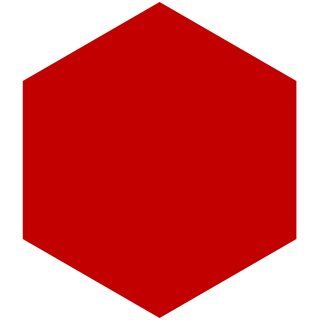
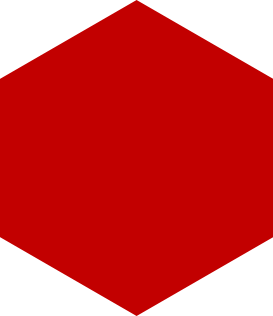
Added 3D print component with hexes

Changed region(s): [[0.0, 0.0, 1.0, 1.0]]

diff --git a/src/app/routes/Druk3D/Druk3D.js b/src/app/routes/Druk3D/Druk3D.js
@@ -1,12 +1,63 @@
 import React, {Component} from 'react'
 import DocTitle from 'react-document-title'
 import {Grid, Row, Col, Image} from 'react-bootstrap'
+import hexr from './../../assets/hex-red-tmp.png'
+import './Druk3D.scss'
+import {Link} from 'react-router'
 
 class Druk3D extends Component {
   render() {
 		return (
 			<div>
-				<h1>Druk 3D</h1>
+				<div className="container">
+					<h2>Druk 3D</h2>
+				</div>
+				<div className="technics">
+					<div className="print">
+						<div className="tech">
+							<Link to="/">
+								<div className="tech-name">Wolfix Filamenty</div>
+								<Image src={hexr}/>
+							</Link>
+						</div>
+						<div className="tech">
+							<Link to="/">
+								<div className="tech-name">Projektowanie</div>
+								<Image src={hexr}/>
+							</Link>
+						</div>
+						<div className="tech">
+							<Link to="/">
+								<div className="tech-name">Opis technologii</div>
+								<Image src={hexr}/>
+							</Link>
+						</div>
+						<div className="tech">
+							<Link to="/">
+								<div className="tech-name">Opis technologii</div>
+								<Image src={hexr}/>
+							</Link>
+						</div>
+						<div className="tech">
+							<Link to="/">
+								<div className="tech-name">Drukarki 3d</div>
+								<Image src={hexr}/>
+							</Link>
+						</div>
+						<div className="tech">
+							<Link to="/">
+								<div className="tech-name">Industry</div>
+								<Image src={hexr}/>
+							</Link>
+						</div>
+						<div className="tech">
+							<Link to="/">
+								<div className="tech-name">EDV</div>
+								<Image src={hexr}/>
+							</Link>
+						</div>
+					</div>
+				</div>
 			</div>
 		)
   }

diff --git a/src/app/routes/Druk3D/Druk3D.scss b/src/app/routes/Druk3D/Druk3D.scss
@@ -1,0 +1,51 @@
+$hexTech: 100vw/7;
+.technics {
+    width: 100%;
+    .print {
+        width: 98vw;
+        height: $hexTech*1.49;
+        display: inline-flex;
+        justify-content: center;
+        .tech {
+            width: $hexTech;
+            display: flex;
+            margin: 0 $hexTech*.073*-1;
+            &-name {
+                position: absolute;
+                width: 14.28571vw;
+                height: 14.28571vw;
+                padding: 12px;
+                display: flex;
+                align-items: center;
+                justify-content: center;
+                color: white;
+                font-weight: bold;
+                text-transform: uppercase;
+                z-index: 333;
+            }
+            
+a{
+    transition: .2s ease-in-out;
+    &:hover{    
+        z-index: 9;
+            transform: scale(1.2);
+        > img{
+            filter: grayscale(0);
+            z-index: 99999;
+        }
+    }
+}
+            img {
+                width: 100%;
+                filter: grayscale(1);
+                transition: .2s ease-in-out;
+            }
+            &:nth-child(even) {
+                align-items: flex-start;
+            }
+            &:nth-child(odd) {
+                align-items: flex-end;
+            }
+        }
+    }
+}

diff --git a/src/app/routes/Home/Home.js b/src/app/routes/Home/Home.js
@@ -41,7 +41,7 @@ class Home extends Component {
                     <Link className="hexAnimation10 wolf-news" to='/wolf-news'>
                       <Polyline points={hex.pointsHover} fill={{color:'rgba(75, 75, 75, 0.3)'}} stroke={{color:'#171717'}}  strokeWidth={6}/>
                     </Link>
-                    <Link className="druk hexAnimation9" to='/o-nas'>
+                    <Link className="druk hexAnimation9" to='/druk-3d'>
                       <Polyline points={hex.pointsHover} fill={{color:'rgba(75, 75, 75, 0.3)'}} stroke={{color:'#171717'}}  strokeWidth={6}/>
                     </Link>
                   </div>

diff --git a/src/app/components/Header/Header.js b/src/app/components/Header/Header.js
@@ -47,7 +47,7 @@ class Header extends Component {
 								<Link to='/portfolio' activeClassName='is-active'>Portfolio</Link>
 							</li>
 							<li>
-								<Link to='/project-studio' activeClassName='is-active'>Project studio</Link>
+								<Link to='/druk-3d' activeClassName='is-active'>Project studio</Link>
 							</li>
 							<li>
 								<Link to='/projekty' activeClassName='is-active'>Projekty</Link>

diff --git a/src/app/routes/App/App.scss b/src/app/routes/App/App.scss
@@ -15,8 +15,8 @@
         margin-bottom: 20px;
     }
     p {
-    margin: 10px 0 14px;
-}
+        margin: 10px 0 14px;
+    }
 
     .container{
         padding-bottom: 30px;

diff --git a/src/app/routes/Onas/Onas.scss b/src/app/routes/Onas/Onas.scss
@@ -32,7 +32,7 @@
     }
     a:hover{
         > img{
-            filter: brightness(1);
+            filter: grayscale(0);
             z-index: 999;
         }
 
